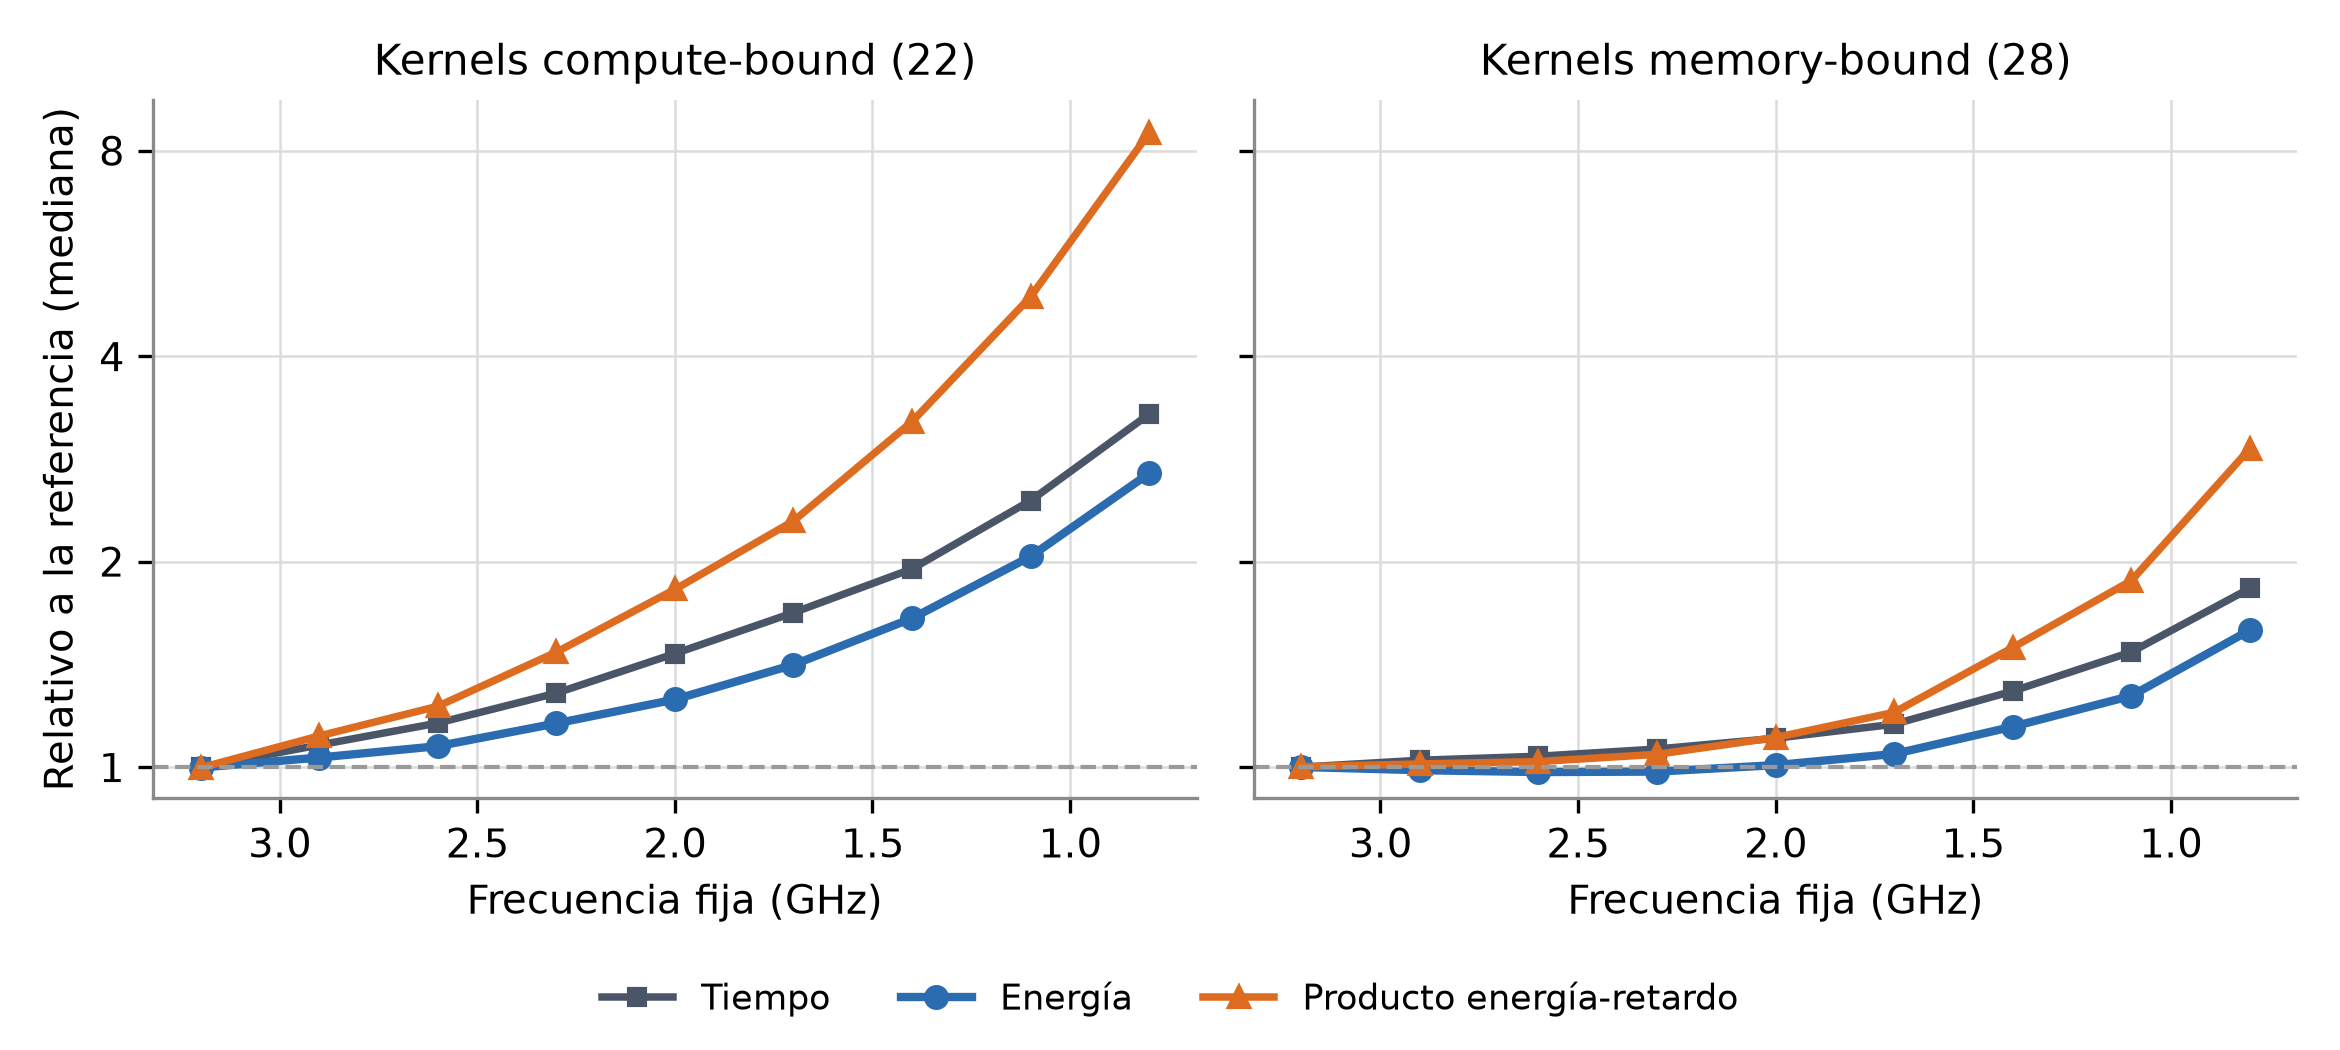
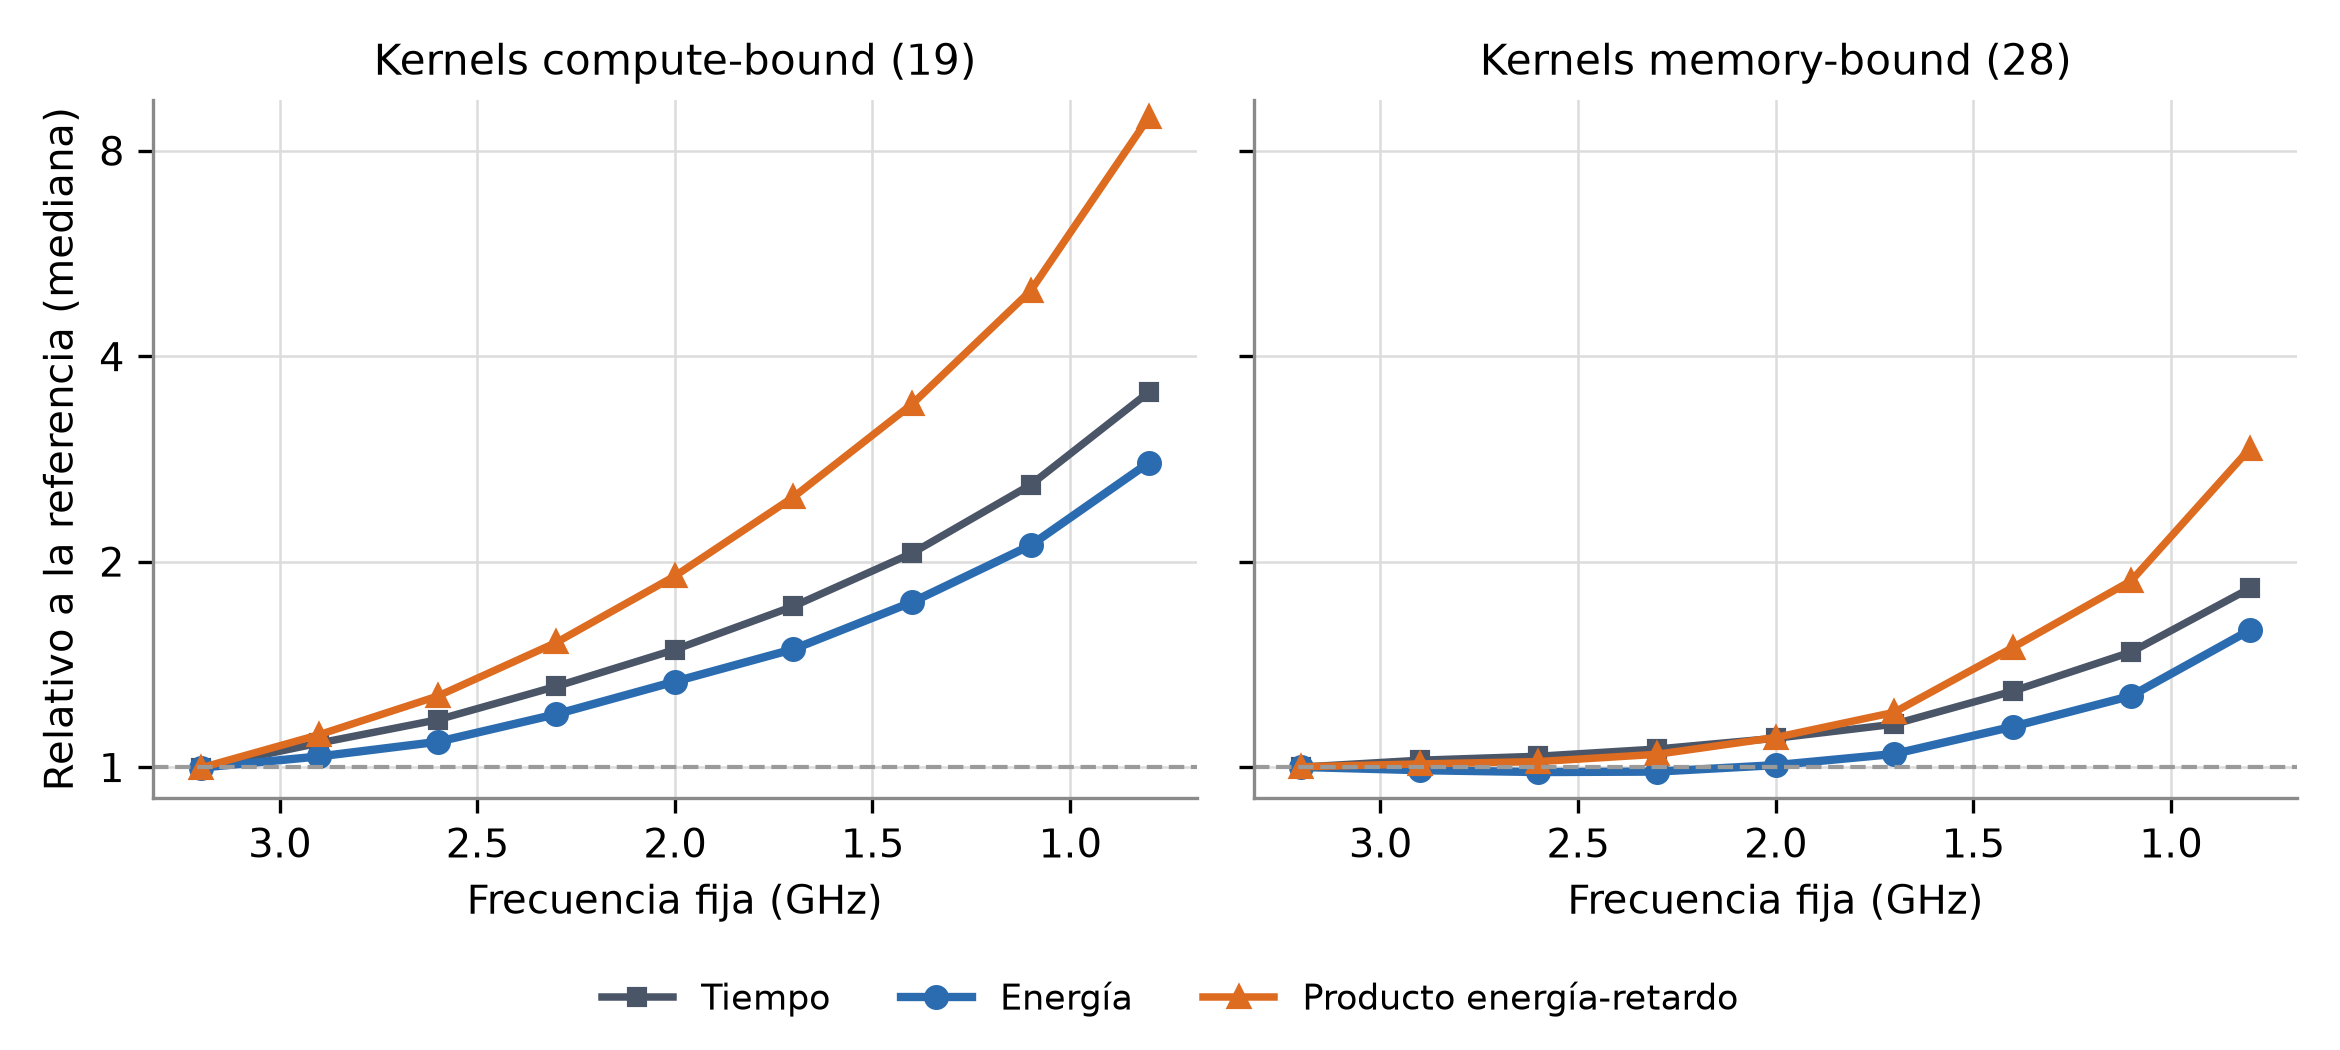
fix(fase2-cpu): politica de frecuencia sin cargas de duracion fija (phasic) y con efecto minimo relevante del 1%

diff --git a/docs/libro/secciones/03_resultados.tex b/docs/libro/secciones/03_resultados.tex
@@ -513,13 +513,13 @@ Los datos, las figuras y las tablas de esta sección se reproducen con \path{fas
 \subsection{Política de frecuencia por clase en CPU}
 \label{sec:resultados-cpu-politica}
 
-La tabla clase--frecuencia de menor producto energía--retardo se derivó de la campaña con la energía y el tiempo de cada corrida completa. Toda corrida de un mismo kernel ejecuta el mismo trabajo en los diez niveles, de modo que el producto energía--retardo (energía de paquete más DRAM, multiplicada por el tiempo) es comparable entre niveles. Para cada clase se tomó la mediana de las tres repeticiones de cada kernel y se comparó cada nivel fijo con la referencia nativa mediante una prueba de Wilcoxon pareada por kernel ($\alpha=0.05$). Un nivel solo se adopta si mejora el producto agregado de forma significativa; en caso contrario la entrada de la clase es \textit{no actuar}, con su motivo. La clase de cada kernel es la mayoritaria entre sus intervalos etiquetados y se excluyen las sondas de calibración. Las tres variantes de \textit{phasic} tienen duración fija (20.6~s en todos los niveles), de modo que su trabajo no es constante entre niveles; permanecen en la clase compute y se excluyen del resumen del mejor nivel por kernel. La tabla \ref{tab:cpu-politica-ic} recoge, por clase y nivel, la ganancia agregada del producto (positiva si mejora la referencia) con su intervalo de confianza de 95\% por \textit{bootstrap} sobre kernels.
+La tabla clase--frecuencia de menor producto energía--retardo se derivó de la campaña con la energía y el tiempo de cada corrida completa. Toda corrida de un mismo kernel ejecuta el mismo trabajo en los diez niveles, de modo que el producto energía--retardo (energía de paquete más DRAM, multiplicada por el tiempo) es comparable entre niveles. Para cada clase se tomó la mediana de las tres repeticiones de cada kernel y se comparó cada nivel fijo con la referencia nativa mediante una prueba de Wilcoxon pareada por kernel ($\alpha=0.05$). Un nivel solo se adopta si mejora el producto agregado de forma significativa y en al menos 1\%, efecto mínimo relevante que se fijó después de ver el resultado y se declara como tal; en caso contrario la entrada de la clase es \textit{no actuar}, con su motivo. La clase de cada kernel es la mayoritaria entre sus intervalos etiquetados y se excluyen las sondas de calibración. Se excluyen las tres variantes de \textit{phasic}, cuya duración es fija (20.6~s en todos los niveles): su trabajo no es constante entre niveles y su producto no compara lo mismo. La tabla \ref{tab:cpu-politica-ic} recoge, por clase y nivel, la ganancia agregada del producto (positiva si mejora la referencia) con su intervalo de confianza de 95\% por \textit{bootstrap} sobre kernels.
 
-El resultado es \textit{no actuar} en ambas clases (22 kernels compute y 28 memory, estos últimos con \texttt{ptrchase}, medido solo para esta política por ser un recorrido de memoria por latencia fuera del dominio del clasificador). En compute, el nivel más alto queda 0.3\% por debajo de la referencia y el más bajo multiplica el producto por 8.5; de F1 a F8 la diferencia es significativa (p < 0.03), pero desfavorable. En memory, ningún nivel bajo mejora el producto agregado: de F3 a F8 la diferencia es significativa, también en sentido desfavorable. \texttt{ptrchase}, con $\alpha=0.22$, apenas gana 1.0\% en F1. Solo cinco kernels del tipo STREAM, con exponente de tiempo $\alpha$ entre 0.18 y 0.22, ganan entre 4 y 11\% en los niveles F1 a F3. Aquí $\alpha$ es la pendiente negativa de $\log T$ frente a $\log f$. La Figura \ref{fig:cpu-energia-relativa} muestra por qué: al bajar el reloj la energía casi no disminuye (la mediana más baja es 0.983 de la referencia en memory, y en compute nunca baja de 0.998), mientras el tiempo crece, de modo que el producto energía--retardo solo empeora.
+El resultado es \textit{no actuar} en ambas clases (19 kernels compute y 28 memory, estos últimos con \texttt{ptrchase}, medido solo para esta política por ser un recorrido de memoria por latencia fuera del dominio del clasificador). En compute, el nivel más alto (F0, 3.2~GHz, el mismo reloj que la referencia con el turbo desactivado) mejora el producto 0.56\% (IC95 de 0.27 a 1.38\%, $p=0.008$): la diferencia es significativa pero menor que el efecto mínimo relevante y proviene de fijar el reloj frente al gobernador, no de reducirlo; de F1 a F8 la diferencia es significativa ($p<0.001$) y desfavorable, y el nivel más bajo multiplica el producto por 9.0 en mediana. En memory, ningún nivel bajo mejora el producto agregado: de F3 a F8 la diferencia es significativa, también en sentido desfavorable. \texttt{ptrchase}, con $\alpha=0.22$, apenas gana 1.0\% en F1. Solo cinco kernels del tipo STREAM, con exponente de tiempo $\alpha$ entre 0.18 y 0.22, ganan entre 4 y 11\% en los niveles F1 a F3. Aquí $\alpha$ es la pendiente negativa de $\log T$ frente a $\log f$. La Figura \ref{fig:cpu-energia-relativa} muestra por qué: al bajar el reloj la energía casi no disminuye (la mediana más baja es 0.983 de la referencia en memory, y en compute nunca baja de 0.998), mientras el tiempo crece, de modo que el producto energía--retardo solo empeora.
 
 \begin{table}[H]
 \centering
-\caption[Ganancia del producto energía--retardo por nivel y clase]{Ganancia agregada del producto energía--retardo frente a la referencia nativa (\%), intervalo de confianza de 95\% por \textit{bootstrap} de kernels y valor $p$ de Wilcoxon pareado. Un valor negativo indica empeoramiento. Compute: 22 kernels; memory: 28 kernels. Nota. Elaboración propia.}
+\caption[Ganancia del producto energía--retardo por nivel y clase]{Ganancia agregada del producto energía--retardo frente a la referencia nativa (\%), intervalo de confianza de 95\% por \textit{bootstrap} de kernels y valor $p$ de Wilcoxon pareado. Un valor negativo indica empeoramiento. Compute: 19 kernels; memory: 28 kernels. Nota. Elaboración propia.}
 \label{tab:cpu-politica-ic}
 \small
 \begin{tabular}{@{}lrcrrcr@{}}
@@ -528,15 +528,15 @@ El resultado es \textit{no actuar} en ambas clases (22 kernels compute y 28 memo
 \cmidrule(lr){2-4}\cmidrule(l){5-7}
 \textbf{Nivel} & Ganancia & IC 95\% & $p$ & Ganancia & IC 95\% & $p$ \\
 \midrule
-F0 & $0.26$ & $[-0.01;\ 0.73]$ & 0.059 & $0.21$ & $[-0.41;\ 0.39]$ & 0.938 \\
-F1 & $-3.9$ & $[-11.4;\ 2.2]$ & 0.023 & $-5.4$ & $[-6.8;\ -3.4]$ & 0.120 \\
-F2 & $-12.6$ & $[-30.3;\ 2.1]$ & 0.023 & $-13.4$ & $[-18.5;\ -11.2]$ & 0.074 \\
-F3 & $-25.9$ & $[-57.1;\ 0.0]$ & 0.013 & $-26.2$ & $[-34.0;\ -20.5]$ & 0.018 \\
-F4 & $-45.4$ & $[-96.0;\ -3.6]$ & 0.013 & $-44.0$ & $[-54.8;\ -20.9]$ & 0.009 \\
-F5 & $-77.3$ & $[-157.3;\ -10.8]$ & 0.007 & $-72.8$ & $[-91.9;\ -43.7]$ & $<0.001$ \\
-F6 & $-133.1$ & $[-263.8;\ -24.4]$ & 0.003 & $-124.6$ & $[-153.0;\ -82.3]$ & $<0.001$ \\
-F7 & $-241.8$ & $[-468.3;\ -53.4]$ & 0.002 & $-219.2$ & $[-273.5;\ -155.7]$ & $<0.001$ \\
-F8 & $-499.0$ & $[-951.2;\ -122.5]$ & $<0.001$ & $-445.9$ & $[-561.9;\ -337.3]$ & $<0.001$ \\
+F0 & $0.56$ & $[0.27;\ 1.38]$ & 0.008 & $0.21$ & $[-0.41;\ 0.39]$ & 0.938 \\
+F1 & $-11.6$ & $[-14.2;\ -11.0]$ & $<0.001$ & $-5.4$ & $[-6.8;\ -3.4]$ & 0.120 \\
+F2 & $-30.7$ & $[-34.7;\ -29.2]$ & $<0.001$ & $-13.4$ & $[-18.5;\ -11.2]$ & 0.073 \\
+F3 & $-58.0$ & $[-66.6;\ -54.6]$ & $<0.001$ & $-26.2$ & $[-34.0;\ -20.5]$ & 0.018 \\
+F4 & $-97.5$ & $[-111.2;\ -91.8]$ & $<0.001$ & $-44.0$ & $[-54.8;\ -20.9]$ & 0.009 \\
+F5 & $-159.9$ & $[-181.9;\ -150.7]$ & $<0.001$ & $-72.8$ & $[-91.9;\ -43.7]$ & $<0.001$ \\
+F6 & $-268.3$ & $[-305.8;\ -252.6]$ & $<0.001$ & $-124.6$ & $[-153.0;\ -82.3]$ & $<0.001$ \\
+F7 & $-476.0$ & $[-541.0;\ -448.6]$ & $<0.001$ & $-219.2$ & $[-273.5;\ -155.7]$ & $<0.001$ \\
+F8 & $-966.6$ & $[-1098.7;\ -911.3]$ & $<0.001$ & $-445.9$ & $[-561.9;\ -337.3]$ & $<0.001$ \\
 \bottomrule
 \end{tabular}
 \end{table}

diff --git a/fase2_clasificador/analysis/cpu_policy_table.py b/fase2_clasificador/analysis/cpu_policy_table.py
@@ -36,12 +36,17 @@ if str(_ROOT) not in sys.path:
 from common.stats import paired_significance_test  # noqa: E402
 
 CALIBRATION = ("stream_official", "ert_probe")  # sondas de calibración, no kernels del dataset
+# Cargas de duración fija por diseño (phasic corre 20.6 s en los diez niveles): a frecuencia baja hacen
+# menos trabajo en el mismo tiempo, así que su EDP no compara el mismo trabajo entre niveles y no puede
+# entrar a una tabla que se apoya en esa igualdad.
+FIXED_DURATION_PREFIXES = ("phasic",)
 LEVELS = ["F0", "F1", "F2", "F3", "F4", "F5", "F6", "F7", "F8"]
 
 
 def per_run(df: pd.DataFrame) -> pd.DataFrame:
     d = df[df.accepted.astype(bool) & df.level.isin(["REF"] + LEVELS)
-           & ~df.kernel_ref.isin(CALIBRATION)].copy()
+           & ~df.kernel_ref.isin(CALIBRATION)
+           & ~df.kernel_ref.str.startswith(FIXED_DURATION_PREFIXES)].copy()
     d["energy_j"] = (d.pkg_uj + d.dram_uj) / 1e6
     d["time_s"] = d.elapsed_ns / 1e9
     d["edp"] = d.energy_j * d.time_s
@@ -63,7 +68,7 @@ def _gain_ci(ref_edp: np.ndarray, lv_edp: np.ndarray, reps: int = 4000, seed: in
     return [float(np.percentile(gains, 2.5)), float(np.percentile(gains, 97.5))]
 
 
-def policy(runs: pd.DataFrame, kc: pd.DataFrame, alpha: float = 0.05) -> tuple[dict, pd.DataFrame]:
+def policy(runs: pd.DataFrame, kc: pd.DataFrame, alpha: float = 0.05, min_effect: float = 0.0) -> tuple[dict, pd.DataFrame]:
     med = runs.groupby(["kernel_ref", "level"])[["edp", "energy_j", "time_s"]].median().reset_index()
     campaign = runs.groupby("kernel_ref")["run"].agg(lambda r: sorted({x.split("__")[0] for x in r})) if "run" in runs else None
     rows, out = [], {}
@@ -71,7 +76,8 @@ def policy(runs: pd.DataFrame, kc: pd.DataFrame, alpha: float = 0.05) -> tuple[d
         ks = kc.index[kc["class"] == cls]
         sub = med[med.kernel_ref.isin(ks)]
         ref = sub[sub.level == "REF"].set_index("kernel_ref")
-        best = None
+        best = None  # mejor nivel significativo con ganancia >= min_effect
+        sig = None   # mejor nivel significativo con ganancia > 0, sin umbral de efecto
         for lv in LEVELS:
             c = sub[sub.level == lv].set_index("kernel_ref")
             common = sorted(set(ref.index) & set(c.index))
@@ -88,8 +94,9 @@ def policy(runs: pd.DataFrame, kc: pd.DataFrame, alpha: float = 0.05) -> tuple[d
                              energy_ratio=float((x.energy_j / r.energy_j).median()),
                              time_ratio=float((x.time_s / r.time_s).median()),
                              test=t.test_name, p=t.p_value, significant=bool(t.significant)))
-            if t.significant and gain > 0 and (best is None or gain > best[1]):
-                best = (lv, gain, t)
+            if t.significant and gain > 0 and (sig is None or gain > sig[1]):
+                sig = (lv, gain, t)
+        best = sig if sig is not None and sig[1] >= min_effect else None
         tab_cls = pd.DataFrame([r_ for r_ in rows if r_["cls"] == cls])
         campaigns = sorted({c for k in ks for c in campaign.loc[k]}) if campaign is not None else []
         levels_tested = {r_["level"]: {"gain_agg": round(float(r_["gain_agg"]), 4),
@@ -98,12 +105,17 @@ def policy(runs: pd.DataFrame, kc: pd.DataFrame, alpha: float = 0.05) -> tuple[d
                                        "significant": bool(r_["significant"])} for _, r_ in tab_cls.iterrows()}
         base = {"n_kernels": int(len(ks)), "campaign_ids": campaigns, "reference_level": "REF",
                 "sample_unit": "kernel (mediana de sus repeticiones aceptadas)",
-                "test": "wilcoxon pareado por kernel contra REF", "alpha": alpha, "levels_tested": levels_tested}
+                "test": "wilcoxon pareado por kernel contra REF", "alpha": alpha, "min_effect": min_effect,
+                "levels_tested": levels_tested}
         positive = [r_ for _, r_ in tab_cls.iterrows() if r_["gain_agg"] > 0]
         top = max(positive, key=lambda r_: r_["gain_agg"]) if positive else None
         base["chosen_level"] = best[0] if best else None
         if best is None:
-            if top is None:
+            if sig is not None:
+                top = tab_cls[tab_cls.level == sig[0]].iloc[0]
+                code, txt = ("efecto_bajo_minimo",
+                             f"mejora significativa pero menor que el efecto minimo relevante declarado ({min_effect:.0%})")
+            elif top is None:
                 code, txt = "ningun_nivel_mejora_edp", "ningun nivel bajo mejora el EDP agregado frente a REF"
             else:
                 code, txt = ("mejora_no_significativa",
@@ -124,17 +136,21 @@ def main() -> None:
     ap = argparse.ArgumentParser()
     ap.add_argument("runs_csv", type=Path, nargs="+", help="uno o mas CSV por corrida (se concatenan)")
     ap.add_argument("--out", type=Path, required=True)
+    ap.add_argument("--min-effect", type=float, default=0.01,
+                    help="ganancia minima de EDP para actuar (fraccion); decision declarada posterior al resultado")
     a = ap.parse_args()
     df = pd.concat([pd.read_csv(f) for f in a.runs_csv], ignore_index=True)
     runs = per_run(df)
     kc = kernel_class(runs)
-    pol, tab = policy(runs, kc)
+    pol, tab = policy(runs, kc, min_effect=a.min_effect)
     a.out.mkdir(parents=True, exist_ok=True)
     tab.to_csv(a.out / "policy_by_level.csv", index=False)
     kc.to_csv(a.out / "kernel_class.csv")
     doc = {"schema_version": 1, "generated_at_utc": datetime.now(timezone.utc).isoformat(),
            "device": "cpu", "reference_level": "REF",
            "inputs": {f.name: hashlib.sha256(f.read_bytes()).hexdigest() for f in a.runs_csv},
+           "excluded_kernels": {"motivo": "duracion fija por diseno: el trabajo no es igual entre niveles",
+                                "kernels": sorted(k for k in df.kernel_ref.unique() if k.startswith(FIXED_DURATION_PREFIXES))},
            "policy": pol}
     (a.out / "policy_cpu.json").write_text(json.dumps(doc, indent=1))
     pd.set_option("display.width", 200)

diff --git a/docs/libro/scripts/generar_figuras_energia_cpu.py b/docs/libro/scripts/generar_figuras_energia_cpu.py
@@ -1,6 +1,7 @@
 """Figuras de energía y potencia de la política de frecuencia CPU.
 
-Lee docs/libro/datos/cpu_calidad_20260918/{politica,potencia} y escribe
+Lee docs/libro/datos/cpu_calidad_30fam/politica (tabla de política, sin las cargas de duración fija)
+y docs/libro/datos/cpu_calidad_20260918/{politica,potencia} y escribe
 docs/libro/figuras/fig_cpu_energia_*_20260920.png.
 Reproduce: python3 docs/libro/scripts/generar_figuras_energia_cpu.py
 """
@@ -28,7 +29,7 @@ CALIBRACION = ("stream_official", "ert_probe")
 
 
 def relativos_a_referencia() -> None:
-    p = pd.read_csv(D / "politica" / "policy_by_level_con_nuevas.csv")
+    p = pd.read_csv(BASE / "datos" / "cpu_calidad_30fam" / "politica" / "policy_by_level.csv")
     fig, axes = plt.subplots(1, 2, figsize=(7.8, 3.5), sharey=True)
     for ax, cls, titulo in ((axes[0], "compute_bound", "Kernels compute-bound"),
                             (axes[1], "memory_bound", "Kernels memory-bound")):

diff --git a/Seguimiento_Cambios_Plan_Director.md b/Seguimiento_Cambios_Plan_Director.md
@@ -4488,4 +4488,6 @@ reales), sección §3.9.2.
 - **Libro:** capítulos 2 a 5 actualizados; commits `6168736`, `2a659b5`, `cd7135b`. Incidente: el commit `72547e6` incluyó por error seis archivos sin versionar del autor (se retiraron del índice en `858ebfa`, siguen en el historial).
 - **Archivos derivados (2026-09-21):** modelo CPU en el repo, `fase2_clasificador/models/xgboost_cpu.joblib` y `xgboost_cpu.metadata.json` (sha256 `48172683...bc4cb`, 6 variables, umbral 0.85); tabla de política regenerada en `docs/libro/datos/cpu_calidad_30fam/politica/policy_cpu.json` con el formato de plan §3.5 punto 6 (nivel, campañas de origen, kernels, IC95 bootstrap de la ganancia de EDP por nivel, prueba de Wilcoxon). Resultado sin cambios: no actuar en compute (22 kernels) ni en memory (28).
 - **Kernels `nw` y `npb_ep`:** no se medirán; el conjunto de 30 familias medido se da por suficiente (decisión del autor). No se reentrena añadiendo kernels; pueden proponerse kernels solo como prueba del modelo congelado.
+- **Tabla de política CPU, corrección (2026-09-21):** se excluyen las tres variantes de `phasic` (duración fija de 20.6 s en los diez niveles; su trabajo no es igual entre niveles, así que su EDP no es comparable). Quedan 19 kernels compute y 28 memory. Con ellos fuera, compute mejora 0.56 % en F0 (IC95 0.27 a 1.38 %, p = 0.008); F0 fija 3.2 GHz, el mismo reloj que REF con turbo desactivado, por lo que la diferencia viene de fijar el reloj frente al gobernador. **Decisión del autor:** efecto mínimo relevante de 1 % (declarado después de ver el resultado); por debajo de él la entrada es `no_actuar` con motivo `efecto_bajo_minimo`. Resultado: no actuar en ambas clases. `cpu_policy_table.py` recibe `--min-effect` (0.01) y registra `excluded_kernels`; `policy_cpu.json` con sobre versionado y IC95 por nivel.
+- **Prueba externa del modelo congelado:** kernels XSBench y RSBench compilados en paccaA100 (commits fijos, doble precisión en el código) y catalogados; tamizaje en curso (job 7525). Descartados: miniBUDE (`float`, el instrumento cuenta solo FLOPs double), GAP BFS (entero puro, plan §2.1 punto 4) y NPB EP (ya descartado antes). `kmeans` y `particlefilter` no sirven como prueba: solo 4 % y 1.6 % de sus ventanas tienen FLOPs medidos. Alineación de hermanos SMT (cpu16 a cpu21 estaban fijados en 800 MHz) integrada en `hyp_external_cpu.sbatch`.
 
